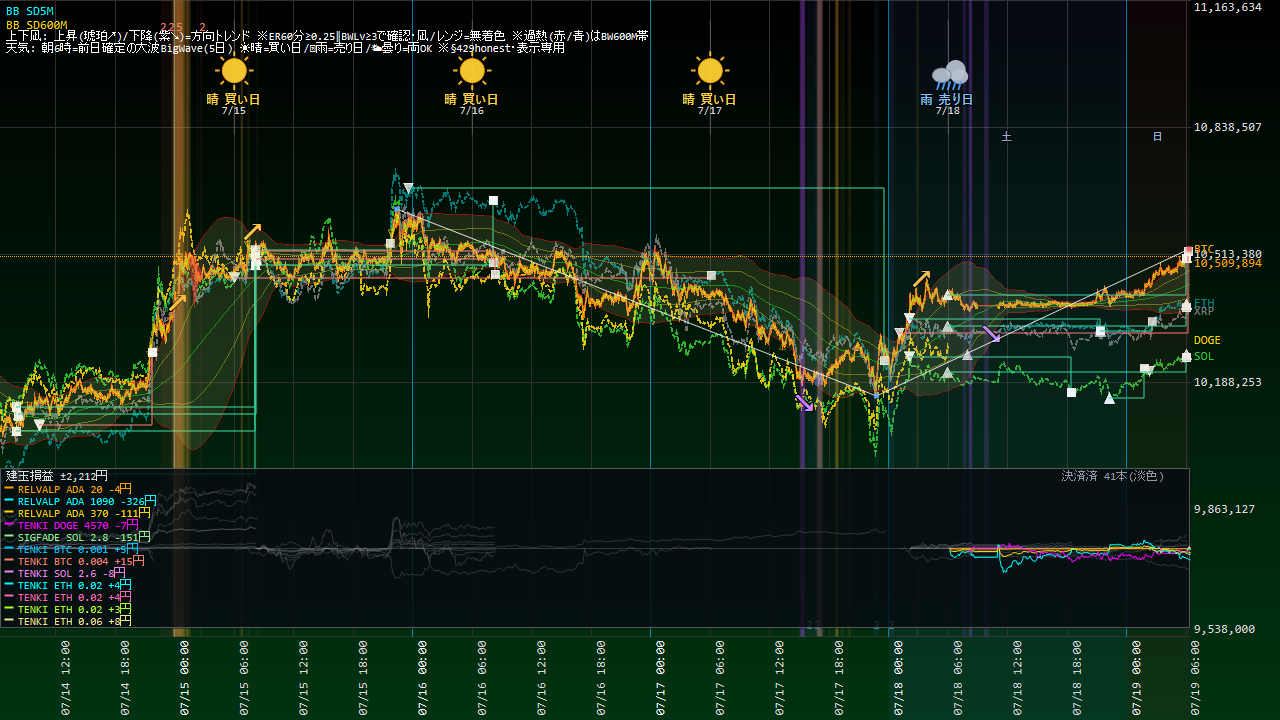
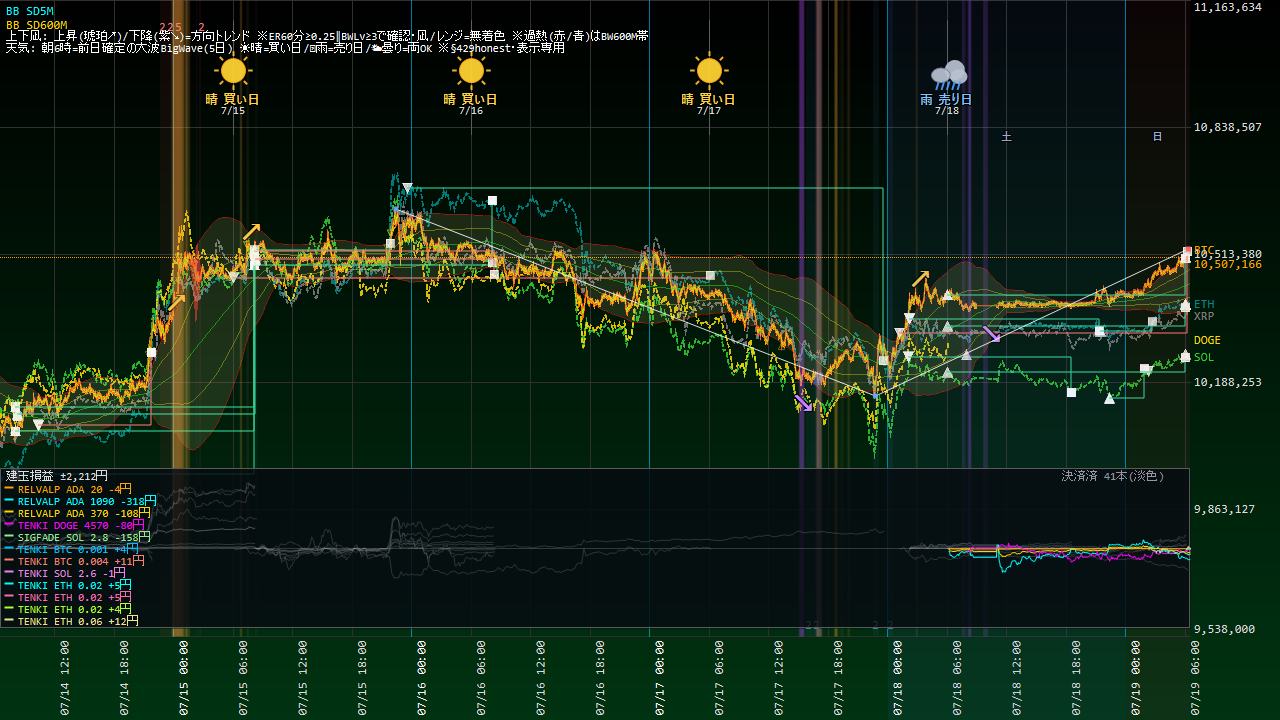
Coin100S 運用状況更新 07-19 06:35

diff --git a/coin100s-795hc4jfv8/index.html b/coin100s-795hc4jfv8/index.html
@@ -14,16 +14,16 @@ a{color:#60a5fa;text-decoration:none} a:hover{text-decoration:underline}
 .meta{color:#94a3b8;font-size:13px}</style>
 <script>setTimeout(function(){location.replace(location.pathname+"?t="+Date.now());},300000);</script></head><body>
 <h1>Coin100S ダッシュボード</h1>
-<p class="meta">スナップショット: 2026-07-19 06:28:48(自動リロード・最新化)</p>
+<p class="meta">スナップショット: 2026-07-19 06:34:50(自動リロード・最新化)</p>
 <div class="cards">
 <div class="card">建玉数<div class="v">14</div></div>
 <div class="card">本日損益<div class="v pos">+172円</div></div>
-<div class="card">評価損益<div class="v neg">-633円</div></div>
+<div class="card">評価損益<div class="v neg">-671円</div></div>
 </div>
 <h2>現在の建玉</h2>
-<table><tr><th>銘柄</th><th>側</th><th>数量</th><th>建値</th><th>含損益</th><th>レッグ</th></tr><tr><td>ADA_JPY</td><td>SELL</td><td>370</td><td>@27</td><td>-110円</td><td>RELVALP_SL700</td></tr><tr><td>ADA_JPY</td><td>SELL</td><td>1090</td><td>@27</td><td>-323円</td><td>RELVALP_SELL</td></tr><tr><td>ADA_JPY</td><td>SELL</td><td>20</td><td>@27</td><td>-5円</td><td>RELVALP_SELL</td></tr><tr><td>BTC_JPY</td><td>BUY</td><td>0.004</td><td>@10,508,065</td><td>+4円</td><td>TENKI5D_REV_BTC</td></tr><tr><td>BTC_JPY</td><td>BUY</td><td>0.001</td><td>@10,507,259</td><td>+1円</td><td>TENKI5D_REV_BTC</td></tr><tr><td>DOGE_JPY</td><td>BUY</td><td>4570</td><td>@12</td><td>-87円</td><td>TENKI5D_REV_DOGE</td></tr><tr><td>ETH_JPY</td><td>BUY</td><td>0.06</td><td>@301,910</td><td>+22円</td><td>TENKI5D_REV_ETH</td></tr><tr><td>ETH_JPY</td><td>BUY</td><td>0.02</td><td>@301,895</td><td>+7円</td><td>TENKI5D_REV_ETH</td></tr><tr><td>ETH_JPY</td><td>BUY</td><td>0.02</td><td>@301,872</td><td>+8円</td><td>TENKI5D_REV_ETH</td></tr><tr><td>ETH_JPY</td><td>BUY</td><td>0.02</td><td>@301,849</td><td>+8円</td><td>TENKI5D_REV_ETH</td></tr><tr><td>LTC_JPY</td><td>SELL</td><td>1</td><td>@7,635</td><td>0円</td><td>RELVALP_SL700</td></tr><tr><td>LTC_JPY</td><td>SELL</td><td>3</td><td>@7,636</td><td>+3円</td><td>RELVALP_SELL</td></tr><tr><td>SOL_JPY</td><td>BUY</td><td>2.6</td><td>@12,258</td><td>+7円</td><td>TENKI5D_REV_SOL</td></tr><tr><td>SOL_JPY</td><td>SELL</td><td>2.8</td><td>@12,201</td><td>-168円</td><td>SIGFADE_SOL</td></tr></table>
+<table><tr><th>銘柄</th><th>側</th><th>数量</th><th>建値</th><th>含損益</th><th>レッグ</th></tr><tr><td>ADA_JPY</td><td>SELL</td><td>370</td><td>@27</td><td>-105円</td><td>RELVALP_SL700</td></tr><tr><td>ADA_JPY</td><td>SELL</td><td>1090</td><td>@27</td><td>-309円</td><td>RELVALP_SELL</td></tr><tr><td>ADA_JPY</td><td>SELL</td><td>20</td><td>@27</td><td>-4円</td><td>RELVALP_SELL</td></tr><tr><td>BTC_JPY</td><td>BUY</td><td>0.004</td><td>@10,508,065</td><td>-9円</td><td>TENKI5D_REV_BTC</td></tr><tr><td>BTC_JPY</td><td>BUY</td><td>0.001</td><td>@10,507,259</td><td>-2円</td><td>TENKI5D_REV_BTC</td></tr><tr><td>DOGE_JPY</td><td>BUY</td><td>4570</td><td>@12</td><td>-92円</td><td>TENKI5D_REV_DOGE</td></tr><tr><td>ETH_JPY</td><td>BUY</td><td>0.06</td><td>@301,910</td><td>+3円</td><td>TENKI5D_REV_ETH</td></tr><tr><td>ETH_JPY</td><td>BUY</td><td>0.02</td><td>@301,895</td><td>+1円</td><td>TENKI5D_REV_ETH</td></tr><tr><td>ETH_JPY</td><td>BUY</td><td>0.02</td><td>@301,872</td><td>+2円</td><td>TENKI5D_REV_ETH</td></tr><tr><td>ETH_JPY</td><td>BUY</td><td>0.02</td><td>@301,849</td><td>+2円</td><td>TENKI5D_REV_ETH</td></tr><tr><td>LTC_JPY</td><td>SELL</td><td>1</td><td>@7,635</td><td>0円</td><td>RELVALP_SL700</td></tr><tr><td>LTC_JPY</td><td>SELL</td><td>3</td><td>@7,636</td><td>+3円</td><td>RELVALP_SELL</td></tr><tr><td>SOL_JPY</td><td>BUY</td><td>2.6</td><td>@12,258</td><td>+7円</td><td>TENKI5D_REV_SOL</td></tr><tr><td>SOL_JPY</td><td>SELL</td><td>2.8</td><td>@12,201</td><td>-168円</td><td>SIGFADE_SOL</td></tr></table>
 <p><a href="status.html"><b>▶ 運用状況の詳細(チャート・本日の取引・レジーム)</b></a></p>
 <h2>日報一覧</h2>
 <table><tr><th>取引日</th><th>実現損益</th><th>総括</th></tr><tr><td><a href='reports/20260718_Coin100S日報.html'>2026-07-18</a></td><td class="pos">+0円</td><td class='meta'>実取引: 新規9件/決済8件、実現損益 +0円。警告/孤児/エラーなし＝健全。</td></tr><tr><td><a href='reports/20260717_Coin100S日報.html'>2026-07-17</a></td><td class="pos">+0円</td><td class='meta'>実取引: 新規3件/決済2件、実現損益 +0円。シグナル却下1件（最多: BW10M3_5M／トレンド方向ゲート(N分傾き下と不一致=逆張り方向のfade禁止)）。⚠警告/エラー 2件（要確認）。</td></tr><tr><td><a href='reports/20260716_Coin100S日報.html'>2026-07-16</a></td><td class="pos">+0円</td><td class='meta'>実取引: 新規0件/決済5件、実現損益 +0円。⚠警告/エラー 7件（要確認）。</td></tr><tr><td><a href='reports/20260715_Coin100S日報.html'>2026-07-15</a></td><td class="pos">+0円</td><td class='meta'>実取引: 新規6件/決済5件、実現損益 +0円。シグナル却下6件（最多: BW10M3_5M／トレンド方向ゲート(N分傾き上と不一致=逆張り方向のfade禁止)）。⚠警告/エラー 7件（要確認）。</td></tr><tr><td><a href='reports/20260714_Coin100S日報.html'>2026-07-14</a></td><td class="pos">+0円</td><td class='meta'>実取引: 新規6件/決済18件、実現損益 +0円。シグナル却下5件（最多: BW10M3_5M／トレンド方向ゲート(N分傾き上と不一致=逆張り方向のfade禁止)）。⚠警告/エラー 9件（要確認）。</td></tr><tr><td><a href='reports/20260713_Coin100S日報.html'>2026-07-13</a></td><td class="pos">+0円</td><td class='meta'>実取引: 新規5件/決済8件、実現損益 +0円。シグナル却下1件（最多: BW10M3_5M／トレンド方向ゲート(N分傾き上と不一致=逆張り方向のfade禁止)）。警告/孤児/エラーなし＝健全。</td></tr><tr><td><a href='reports/20260712_Coin100S日報.html'>2026-07-12</a></td><td class="pos">+0円</td><td class='meta'>実取引: 新規14件/決済6件、実現損益 +0円。シグナル却下5件（最多: BW10M3_5M／トレンド方向ゲート(N分傾き下と不一致=逆張り方向のfade禁止)）。⚠警告/エラー 2件（要確認）。</td></tr><tr><td><a href='reports/20260711_Coin100S日報.html'>2026-07-11</a></td><td class="pos">+0円</td><td class='meta'>実取引: 新規7件/決済6件、実現損益 +0円。⚠警告/エラー 52件（要確認）。</td></tr><tr><td><a href='reports/20260710_Coin100S日報.html'>2026-07-10</a></td><td class="pos">+0円</td><td class='meta'>実取引: 新規7件/決済6件、実現損益 +0円。シグナル却下6件（最多: BW10M3_5M／トレンド方向ゲート(N分傾き上と不一致=逆張り方向のfade禁止)）。警告/孤児/エラーなし＝健全。</td></tr><tr><td><a href='reports/20260709_Coin100S日報.html'>2026-07-09</a></td><td class="pos">+0円</td><td class='meta'>実取引: 新規8件/決済3件、実現損益 +0円。シグナル却下5件（最多: SD120M_5M／トレンド方向ゲート(N分傾き上と不一致=逆張り方向のfade禁止)）。警告/孤児/エラーなし＝健全。</td></tr><tr><td><a href='reports/20260708_Coin100S日報.html'>2026-07-08</a></td><td class="pos">+0円</td><td class='meta'>実取引: 新規2件/決済4件、実現損益 +0円。シグナル却下4件（最多: SD120M_5M／トレンド方向ゲート(N分傾き下と不一致=逆張り方向のfade禁止)）。警告/孤児/エラーなし＝健全。</td></tr><tr><td><a href='reports/20260707_Coin100S日報.html'>2026-07-07</a></td><td class="pos">+0円</td><td class='meta'>実取引: 新規8件/決済6件、実現損益 +0円。シグナル却下4件（最多: SD120M_5M／トレンド方向ゲート(N分傾き上と不一致=逆張り方向のfade禁止)）。⚠警告/エラー 258件（要確認）。</td></tr><tr><td><a href='reports/20260706_Coin100S日報.html'>2026-07-06</a></td><td class="pos">+0円</td><td class='meta'>実取引: 新規9件/決済6件、実現損益 +0円。シグナル却下9件（最多: SD120M_5M／トレンド方向ゲート(N分傾き上と不一致=逆張り方向のfade禁止)）。⚠警告/エラー 150件（要確認）。</td></tr><tr><td><a href='reports/20260705_Coin100S日報.html'>2026-07-05</a></td><td class="pos">+0円</td><td class='meta'>実取引: 新規8件/決済3件、実現損益 +0円。⚠警告/エラー 2件（要確認）。</td></tr><tr><td><a href='reports/20260704_Coin100S日報.html'>2026-07-04</a></td><td class="pos">+0円</td><td class='meta'>実取引: 新規1件/決済2件、実現損益 +0円。⚠警告/エラー 2件（要確認）。</td></tr><tr><td><a href='reports/20260703_Coin100S日報.html'>2026-07-03</a></td><td class="pos">+0円</td><td class='meta'>実取引: 新規5件/決済4件、実現損益 +0円。⚠警告/エラー 15件（要確認）。</td></tr><tr><td><a href='reports/20260702_Coin100S日報.html'>2026-07-02</a></td><td class="pos">+0円</td><td class='meta'>実取引: 新規7件/決済5件、実現損益 +0円。シグナル却下17件（最多: SD120M_5M／トレンド方向ゲート(N分傾き上と不一致=逆張り方向のfade禁止)）。⚠警告/エラー 26件（要確認）。</td></tr><tr><td><a href='reports/20260701_Coin100S日報.html'>2026-07-01</a></td><td class="pos">+0円</td><td class='meta'>実取引: 新規14件/決済8件、実現損益 +0円。シグナル却下14件（最多: SD120M_5M／ボラ軸ゲート(SDN%&amp;gt;N%=高ボラ/荒れレンジ)）。⚠警告/エラー 2件（要確認）。</td></tr><tr><td><a href='reports/20260630_Coin100S日報.html'>2026-06-30</a></td><td class="pos">+0円</td><td class='meta'>実取引: 新規0件/決済1件、実現損益 +0円。シグナル却下29件（最多: 微5M／当日枠N）。警告/孤児/エラーなし＝健全。</td></tr></table>
-<hr><p class="meta">更新: 2026-07-19 06:29:07 / 自動生成: tools/web_publish.py(§580)</p>
+<hr><p class="meta">更新: 2026-07-19 06:35:06 / 自動生成: tools/web_publish.py(§580)</p>
 </body></html>

diff --git a/coin100s-795hc4jfv8/status.html b/coin100s-795hc4jfv8/status.html
@@ -14,22 +14,22 @@ a{color:#60a5fa;text-decoration:none} a:hover{text-decoration:underline}
 .meta{color:#94a3b8;font-size:13px}</style>
 <script>setTimeout(function(){location.replace(location.pathname+"?t="+Date.now());},300000);</script></head><body>
 <h1>Coin100S 運用状況</h1>
-<p class="meta">スナップショット: 2026-07-19 06:28:48 / ページ生成: 2026-07-19 06:29:07(自動リロード・最新化) / <a href="index.html">目次へ</a></p>
+<p class="meta">スナップショット: 2026-07-19 06:34:50 / ページ生成: 2026-07-19 06:35:06(自動リロード・最新化) / <a href="index.html">目次へ</a></p>
 <div class="cards">
 <div class="card">建玉数<div class="v">14</div></div>
 <div class="card">本日損益<div class="v pos">+172円</div></div>
-<div class="card">評価損益<div class="v neg">-633円</div></div>
+<div class="card">評価損益<div class="v neg">-671円</div></div>
 </div>
 <h2>資産推移(直近30日)</h2>
-<img src="status_equity.png?t=0629" alt="equity">
+<img src="status_equity.png?t=0635" alt="equity">
 <h2>取引チャート(直近24h)</h2>
-<img src="status_chart.png?t=0629" alt="chart">
+<img src="status_chart.png?t=0635" alt="chart">
 <h2>建玉一覧</h2>
-<table><tr><th>銘柄</th><th>側</th><th>数量</th><th>建値</th><th>含損益</th><th>レッグ</th></tr><tr><td>ADA_JPY</td><td>SELL</td><td>370</td><td>@27</td><td>-110円</td><td>RELVALP_SL700</td></tr><tr><td>ADA_JPY</td><td>SELL</td><td>1090</td><td>@27</td><td>-323円</td><td>RELVALP_SELL</td></tr><tr><td>ADA_JPY</td><td>SELL</td><td>20</td><td>@27</td><td>-5円</td><td>RELVALP_SELL</td></tr><tr><td>BTC_JPY</td><td>BUY</td><td>0.004</td><td>@10,508,065</td><td>+4円</td><td>TENKI5D_REV_BTC</td></tr><tr><td>BTC_JPY</td><td>BUY</td><td>0.001</td><td>@10,507,259</td><td>+1円</td><td>TENKI5D_REV_BTC</td></tr><tr><td>DOGE_JPY</td><td>BUY</td><td>4570</td><td>@12</td><td>-87円</td><td>TENKI5D_REV_DOGE</td></tr><tr><td>ETH_JPY</td><td>BUY</td><td>0.06</td><td>@301,910</td><td>+22円</td><td>TENKI5D_REV_ETH</td></tr><tr><td>ETH_JPY</td><td>BUY</td><td>0.02</td><td>@301,895</td><td>+7円</td><td>TENKI5D_REV_ETH</td></tr><tr><td>ETH_JPY</td><td>BUY</td><td>0.02</td><td>@301,872</td><td>+8円</td><td>TENKI5D_REV_ETH</td></tr><tr><td>ETH_JPY</td><td>BUY</td><td>0.02</td><td>@301,849</td><td>+8円</td><td>TENKI5D_REV_ETH</td></tr><tr><td>LTC_JPY</td><td>SELL</td><td>1</td><td>@7,635</td><td>0円</td><td>RELVALP_SL700</td></tr><tr><td>LTC_JPY</td><td>SELL</td><td>3</td><td>@7,636</td><td>+3円</td><td>RELVALP_SELL</td></tr><tr><td>SOL_JPY</td><td>BUY</td><td>2.6</td><td>@12,258</td><td>+7円</td><td>TENKI5D_REV_SOL</td></tr><tr><td>SOL_JPY</td><td>SELL</td><td>2.8</td><td>@12,201</td><td>-168円</td><td>SIGFADE_SOL</td></tr></table>
+<table><tr><th>銘柄</th><th>側</th><th>数量</th><th>建値</th><th>含損益</th><th>レッグ</th></tr><tr><td>ADA_JPY</td><td>SELL</td><td>370</td><td>@27</td><td>-105円</td><td>RELVALP_SL700</td></tr><tr><td>ADA_JPY</td><td>SELL</td><td>1090</td><td>@27</td><td>-309円</td><td>RELVALP_SELL</td></tr><tr><td>ADA_JPY</td><td>SELL</td><td>20</td><td>@27</td><td>-4円</td><td>RELVALP_SELL</td></tr><tr><td>BTC_JPY</td><td>BUY</td><td>0.004</td><td>@10,508,065</td><td>-9円</td><td>TENKI5D_REV_BTC</td></tr><tr><td>BTC_JPY</td><td>BUY</td><td>0.001</td><td>@10,507,259</td><td>-2円</td><td>TENKI5D_REV_BTC</td></tr><tr><td>DOGE_JPY</td><td>BUY</td><td>4570</td><td>@12</td><td>-92円</td><td>TENKI5D_REV_DOGE</td></tr><tr><td>ETH_JPY</td><td>BUY</td><td>0.06</td><td>@301,910</td><td>+3円</td><td>TENKI5D_REV_ETH</td></tr><tr><td>ETH_JPY</td><td>BUY</td><td>0.02</td><td>@301,895</td><td>+1円</td><td>TENKI5D_REV_ETH</td></tr><tr><td>ETH_JPY</td><td>BUY</td><td>0.02</td><td>@301,872</td><td>+2円</td><td>TENKI5D_REV_ETH</td></tr><tr><td>ETH_JPY</td><td>BUY</td><td>0.02</td><td>@301,849</td><td>+2円</td><td>TENKI5D_REV_ETH</td></tr><tr><td>LTC_JPY</td><td>SELL</td><td>1</td><td>@7,635</td><td>0円</td><td>RELVALP_SL700</td></tr><tr><td>LTC_JPY</td><td>SELL</td><td>3</td><td>@7,636</td><td>+3円</td><td>RELVALP_SELL</td></tr><tr><td>SOL_JPY</td><td>BUY</td><td>2.6</td><td>@12,258</td><td>+7円</td><td>TENKI5D_REV_SOL</td></tr><tr><td>SOL_JPY</td><td>SELL</td><td>2.8</td><td>@12,201</td><td>-168円</td><td>SIGFADE_SOL</td></tr></table>
 <h2>実現決済履歴(直近15件・OrderId単位)</h2>
 <table><tr><th>決済時刻</th><th>レッグ</th><th>銘柄</th><th>実現損益</th></tr><tr><td>07-19 06:16</td><td>SIGFADE_BTC</td><td>BTC</td><td class="neg">-627円</td></tr><tr><td>07-19 06:03</td><td>TENKI5D_REV_BTC</td><td>BTC</td><td class="pos">+92円</td></tr><tr><td>07-19 06:03</td><td>TENKI5D_REV_ETH</td><td>ETH</td><td class="pos">+212円</td></tr><tr><td>07-19 06:03</td><td>TENKI5D_REV_SOL</td><td>SOL</td><td class="pos">+128円</td></tr><tr><td>07-19 06:03</td><td>TENKI5D_REV_BTC</td><td>BTC</td><td class="pos">+367円</td></tr><tr><td>07-19 02:41</td><td>SIGFADE_ETH</td><td>ETH</td><td class="pos">+103円</td></tr><tr><td>07-19 01:53</td><td>SIGFADE_SOL</td><td>SOL</td><td class="pos">+9円</td></tr><tr><td>07-19 01:53</td><td>SIGFADE_SOL</td><td>SOL</td><td class="pos">+9円</td></tr><tr><td>07-18 21:23</td><td>SIGFADE_ETH</td><td>ETH</td><td class="pos">+114円</td></tr><tr><td>07-18 21:23</td><td>SIGFADE_ETH</td><td>ETH</td><td class="pos">+11円</td></tr><tr><td>07-18 18:31</td><td>SIGFADE_SOL</td><td>SOL</td><td class="pos">+119円</td></tr><tr><td>07-18 18:31</td><td>SIGFADE_SOL</td><td>SOL</td><td class="pos">+11円</td></tr><tr><td>07-18 18:31</td><td>SIGFADE_SOL</td><td>SOL</td><td class="pos">+200円</td></tr><tr><td>07-17 23:37</td><td>RELVALP_SL700</td><td>ETH</td><td class="pos">+497円</td></tr><tr><td>07-17 06:08</td><td>RELVALP_SELL</td><td>ETH</td><td class="neg">-22円</td></tr></table>
 <!-- §799c 「本取引日の実取引(6:00起点)」テーブルは公開ページから削除(ユーザー指示2026-07-15・数量/指値まで晒す情報漏れ)。建玉/実現損益は許可・実発注の生取引明細は非公開 -->
 <h2>現在レジーム(3軸・§570c)</h2>
-<ul><li>アルト対BTC 5日: <b>-151bps</b>(アルト劣後=RELVAL順風)</li><li>BTC ER240m: <b>0.142</b>(閾値0.25→レンジ(fade順風/BWTRD逆風))</li><li>BTC実現ボラ240m: <b>2.86</b> bps/分</li></ul>
+<ul><li>アルト対BTC 5日: <b>-151bps</b>(アルト劣後=RELVAL順風)</li><li>BTC ER240m: <b>0.126</b>(閾値0.25→レンジ(fade順風/BWTRD逆風))</li><li>BTC実現ボラ240m: <b>2.83</b> bps/分</li></ul>
 <hr><p class="meta">自動生成: tools/web_publish.py(§580・読み取り専用)。売買判断はアプリ本体。</p>
 </body></html>
